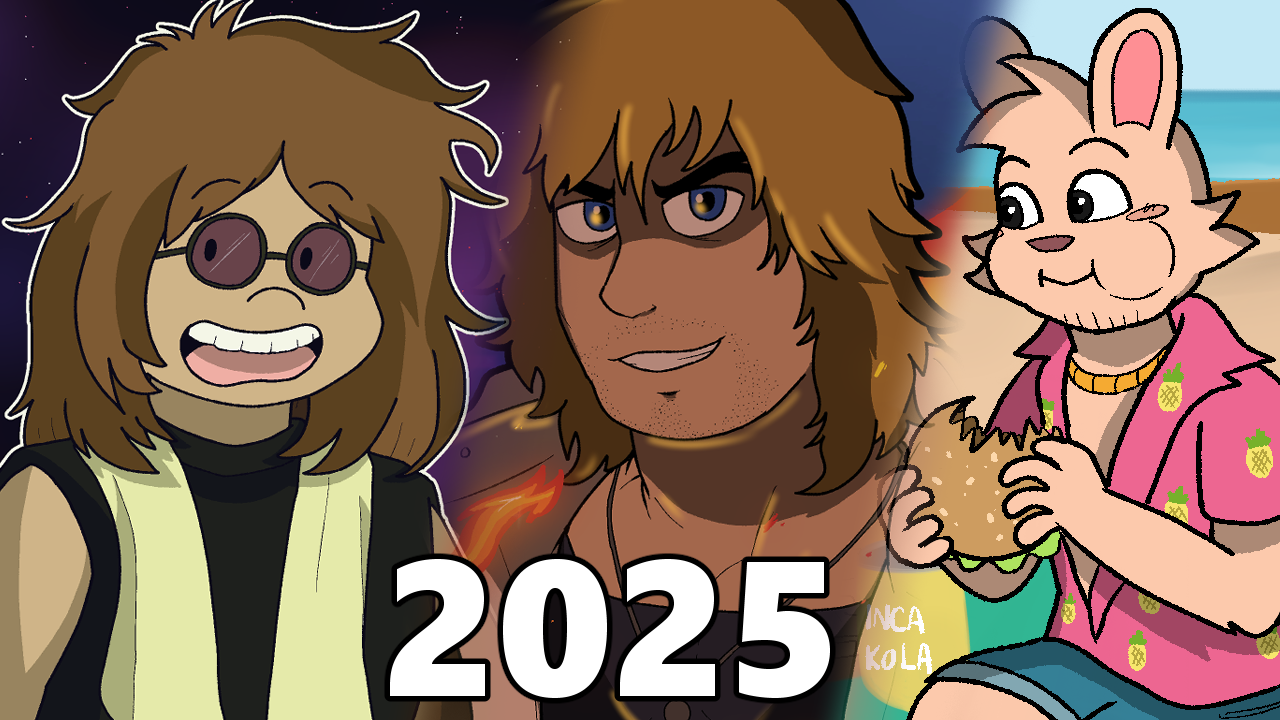
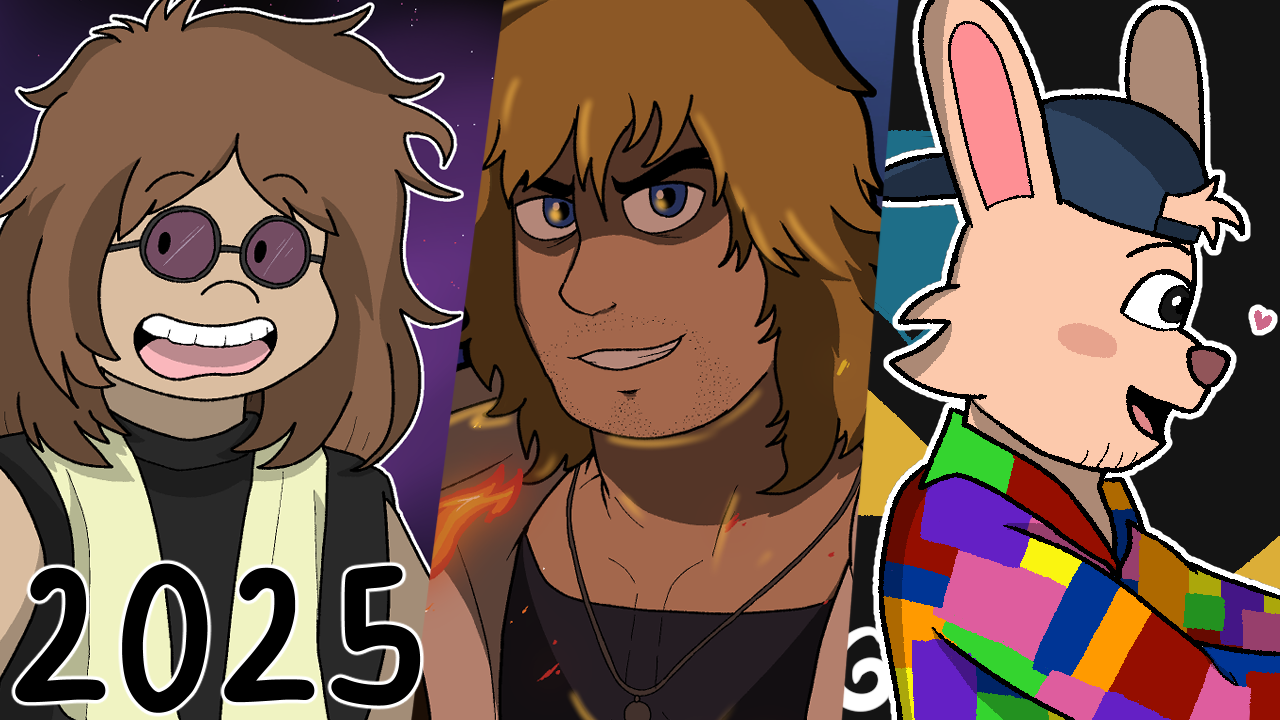
artbannerthumbnailupdates

diff --git a/digitalartwork.html b/digitalartwork.html
@@ -30,7 +30,7 @@
 &nbsp;
 
 <div class="portfolio-item">
-  <img src="2026art/placeholder.png">
+  <img src="2026art/2026banner.png">
     <h3>2026</h3>
        <p>A collection of drawings done in the year 2026. Click <a href="2026art.html"><b>here</b></a> to be taken to the gallery of drawings.</p>
 </div>
@@ -42,7 +42,7 @@
 </div>
 
 <div class="portfolio-item">
-  <img src="2024art/updated2024banner.png">
+  <img src="2024art/2024banner.png">
     <h3>2024</h3>
        <p>A collection of drawings done in the year 2024. Click <a href="art2024.html"><b>here</b></a> to be taken to the gallery of drawings.</p>
 </div>
@@ -54,37 +54,37 @@
 </div>
 
 <div class="portfolio-item">
-    <img src="img/2022art.png">
+    <img src="2022art/2022banner.png">
       <h3>2022</h3>
          <p>A collection of drawings done in the year 2022. Click <a href="2022art.html"><b>here</b></a> to be taken to the gallery of drawings.</p>
 </div>
 
 <div class="portfolio-item">
-  <img src="img/2021promo.png">
+  <img src="websiteassets/2021art.png">
   <h3>2021</h3>
        <p>A collection of drawings done in the year 2021. Click <a href="2021art.html"><b>here</b></a> to be taken to the gallery of drawings.</p>
      </div>
 
 <div class="portfolio-item">
-  <img src="img/2020art.png">
+  <img src="websiteassets/2020art.png">
   <h3>2020</h3>
        <p>A collection of drawings done in the year 2020. Click <a href="2020art.html"><b>here</b></a> to be taken to the gallery of drawings.</p>
      </div>
 
 <div class="portfolio-item">
-  <img src="img/2019Art.png">
+  <img src="websiteassets/2019art.png">
   <h3>2019</h3>
        <p>A collection of drawings done in the year 2019. Click <a href="2019art.html"><b>here</b></a> to be taken to the gallery of drawings.</p>
      </div>
 
 <div class="portfolio-item">
-  <img src="img/2018Art.png">
+  <img src="websiteassets/2018art.png">
   <h3>2018</h3>
        <p>A collection of drawings done in the year 2018. Click <a href="2018art.html"><b>here</b></a> to be taken to the gallery of drawings.</p>
      </div>
 
 <div class="portfolio-item">
-  <img src="img/OlderArt.png">
+  <img src="websiteassets/20162017art.png">
   <h3>2016-2017</h3>
        <p>An older collection of drawings done from the years 2016 & 2017. Click <a href="oldart.html"><b>here</b></a> to be taken to the gallery of drawings.</p>
      </div>
